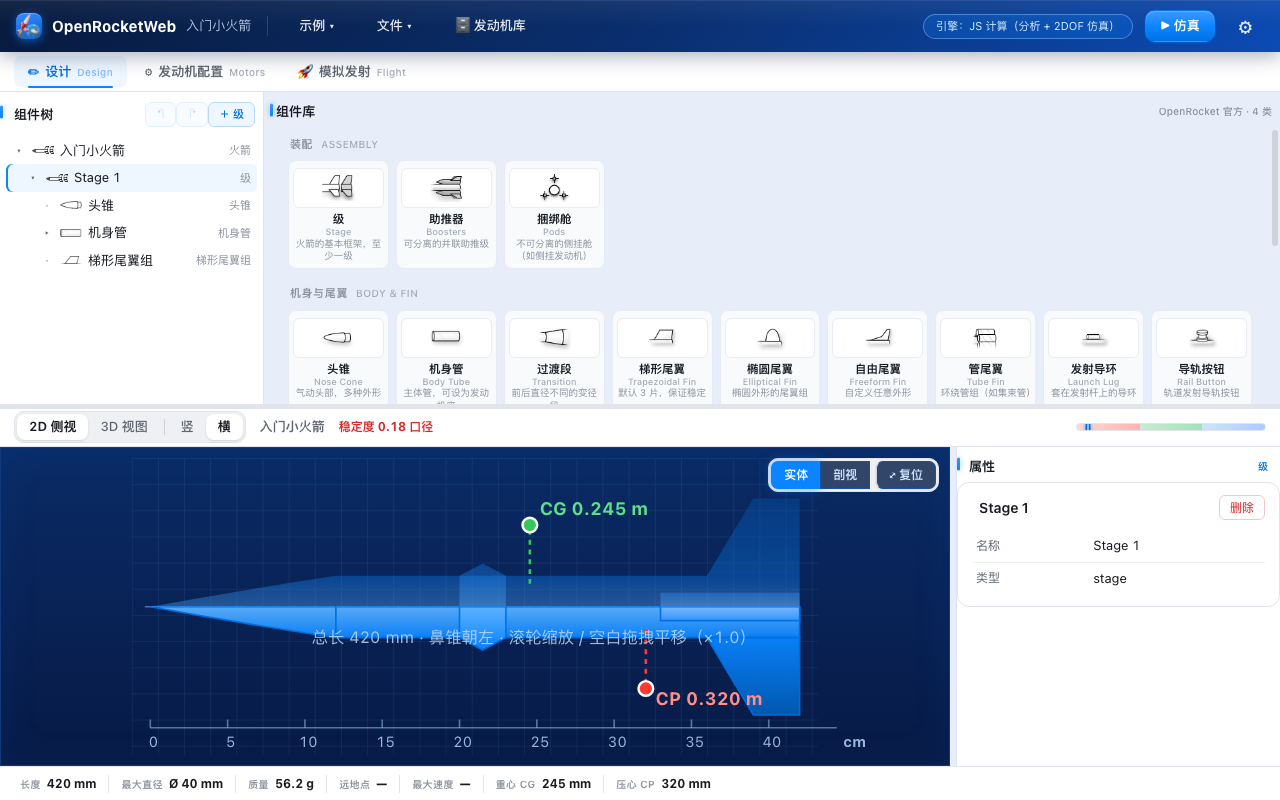
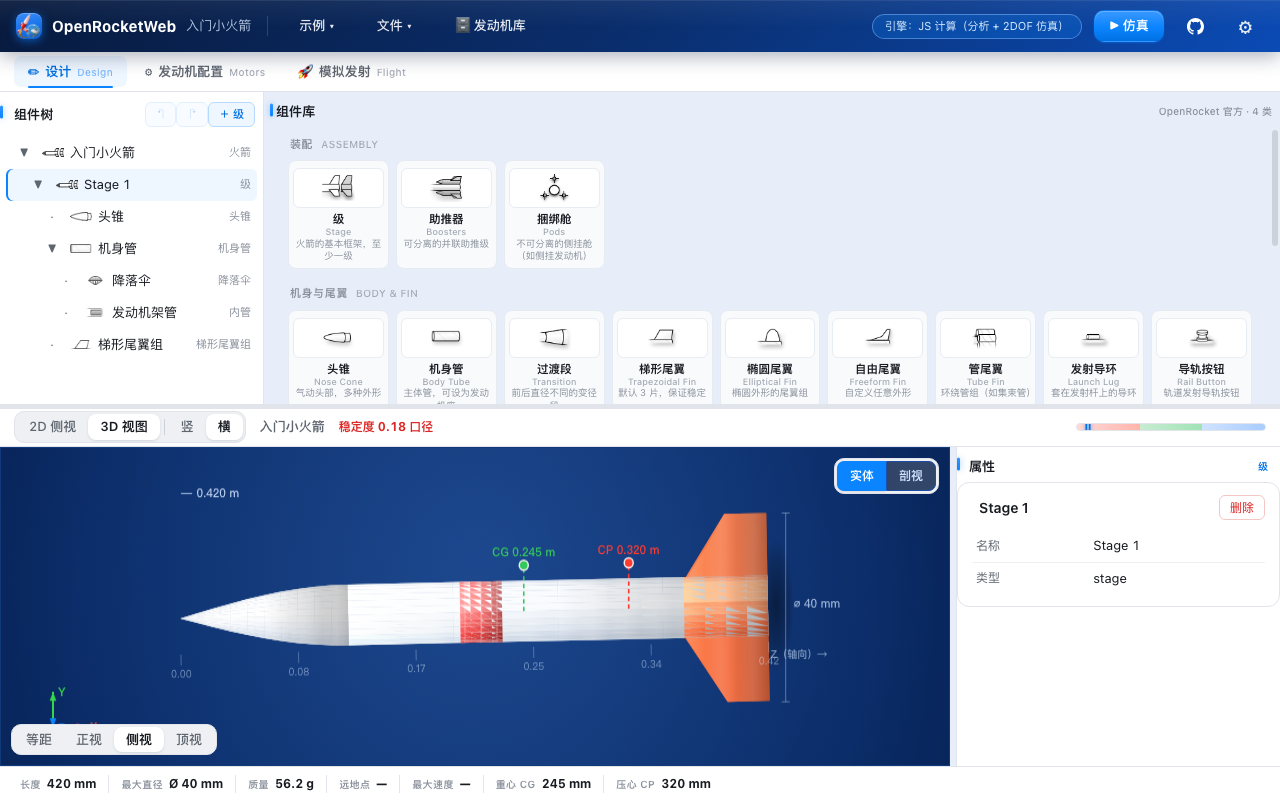
docs: README 截图重截（默认 3D 视图 + 树展开 + GitHub 入口）并改为横排小图（各 49%）

diff --git a/README.md b/README.md
@@ -4,9 +4,10 @@
 
 **在线预览**：https://yihuanfeng.github.io/openrocket-web/ （GitHub Pages 自动部署）
 
-![主界面（火箭设计与 2D/3D 预览）](docs/screenshot-main.png)
-
-![发动机库（motor-database 1076 款实测，顶部筛选 + 可排序表格）](docs/screenshot-motors.png)
+<p align="center">
+  <img src="docs/screenshot-main.png" width="49%" alt="主界面（火箭设计与 2D/3D 预览）" />
+  <img src="docs/screenshot-motors.png" width="49%" alt="发动机库（motor-database 1076 款实测，顶部筛选 + 可排序表格）" />
+</p>
 
 ## 功能
 
